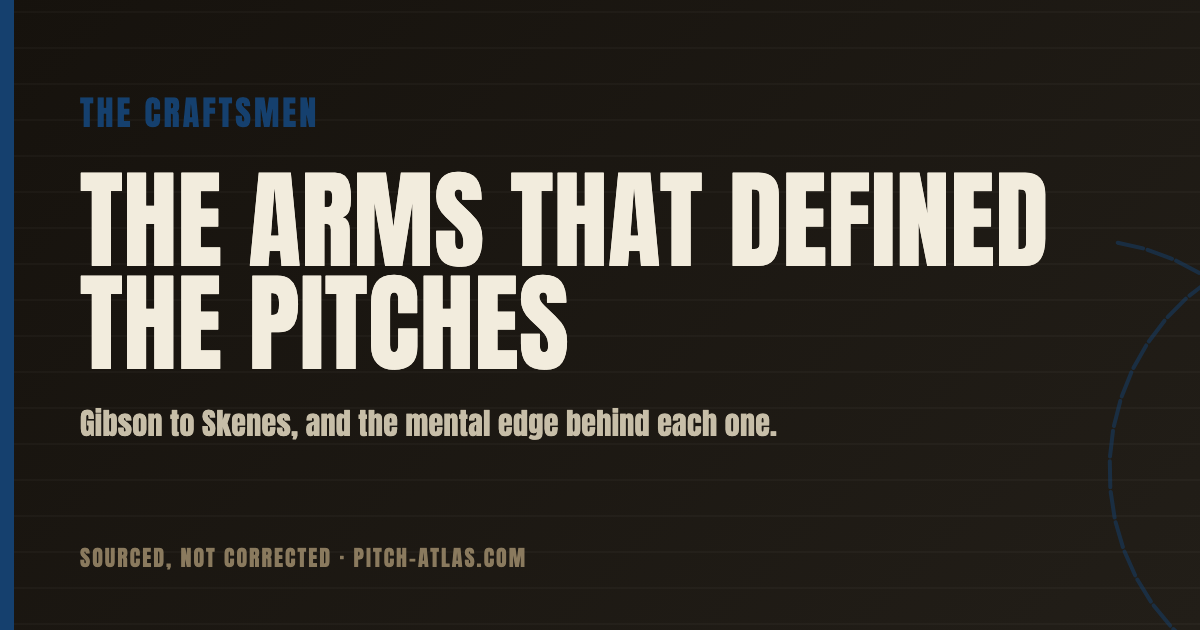
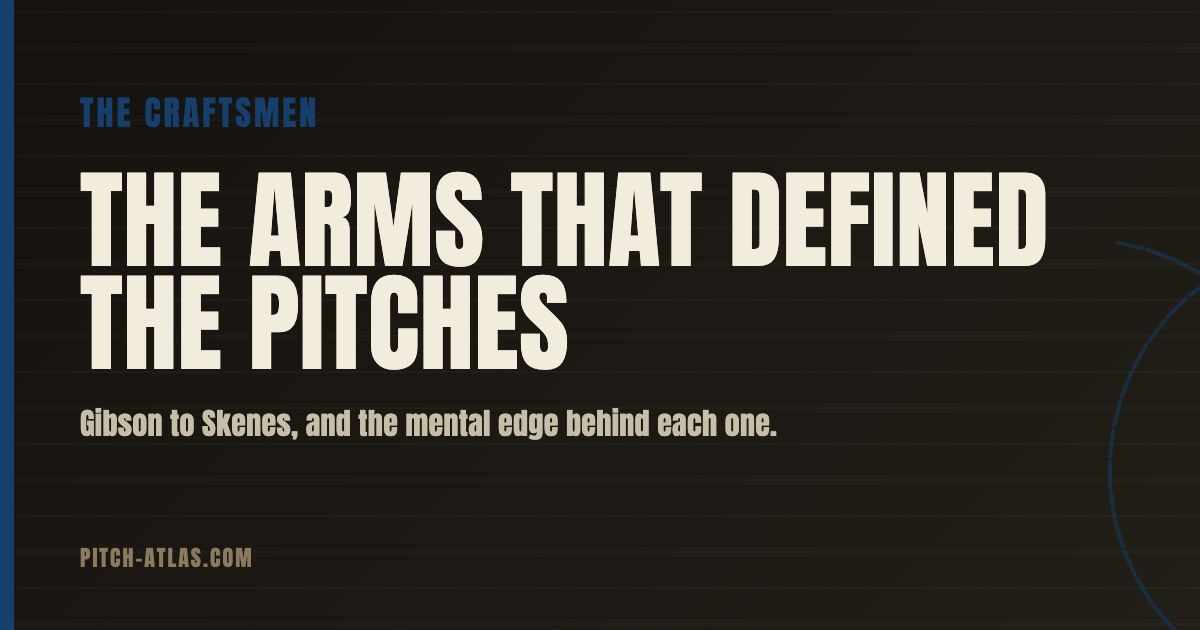
Share cards and link previews now carry the living-museum name instead of the retired motto.
Claude-Session: https://claude.ai/code/session_013U2bon7159gzfirSowE9N9

Changed region(s): [[0.0617, 0.8444, 0.4625, 0.9048]]

diff --git a/index.html b/index.html
@@ -62,7 +62,7 @@
     <meta property="og:title" content="Pitch Atlas: the living museum of pitching craft" />
     <meta
       property="og:description"
-      content="Textbook foundations, verified master variants, and community field notes on how pitchers actually grip and shape the baseball. Every claim labeled by source, not declared right or wrong."
+      content="The heritage, history, and art of pitching: how every pitch is gripped, learned from trusted minds, with room to talk about the craft."
     />
     <meta property="og:url" content="https://pitch-atlas.com/" />
     <meta property="og:image" content="https://pitch-atlas.com/og-image.png" />

diff --git a/CLAUDE.md b/CLAUDE.md
@@ -173,5 +173,5 @@ npm run preview
 `dist/`.) If any command fails, fix it or document the exact blocker.
 
 Final handoff must include: files changed; commands run and results; deployed or
-local preview URL; known limitations; and confirmation that the README, UI copy,
-and data model all still hold the sourced-not-corrected principle.
+local preview URL; known limitations; and confirmation that the README and UI copy
+still carry the mission and the data model still carries provenance underneath it.
